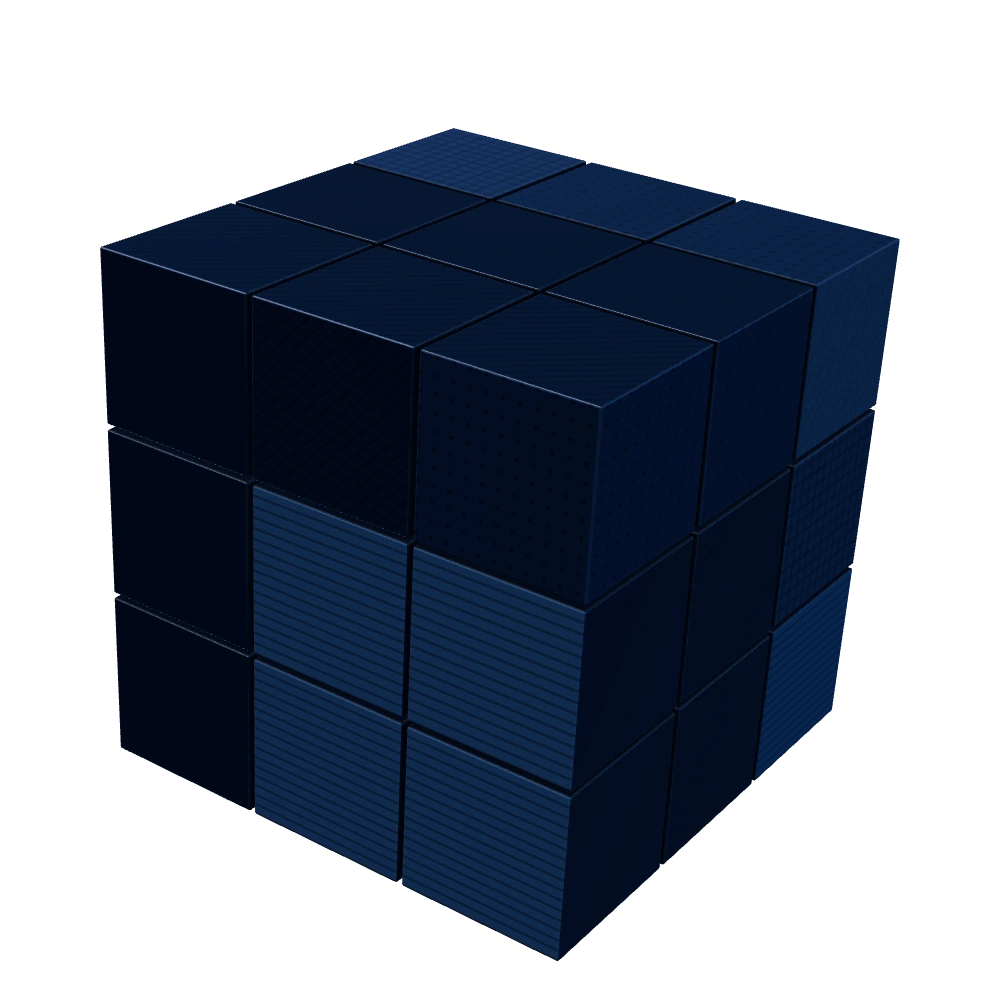
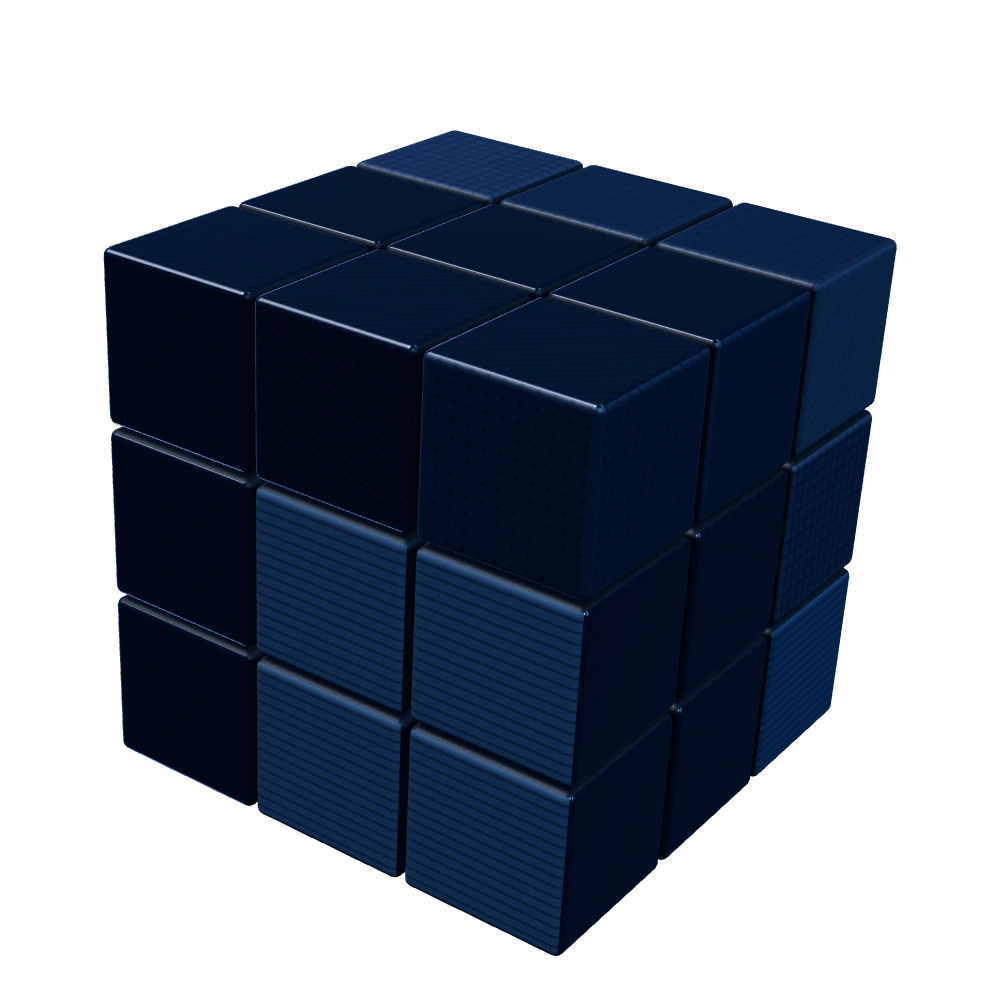
Добавлено переключение секций с натяжением, обновлены кубик и стеклянные поверхности

diff --git a/script.js b/script.js
@@ -1,4 +1,4 @@
-import { mountCube } from './cube.mjs?v=bdcd03778f';
+import { mountCube } from './cube.mjs?v=667a54c1b2';
 
 const canvas = document.querySelector('.cube canvas');
 if (canvas) mountCube(canvas);
@@ -53,94 +53,143 @@ import('./assets/moments/moments.js').then(async ({ready})=>{
   document.querySelectorAll('#about .mo-w').forEach((word,index)=>word.style.setProperty('--word-order',index));
 });
 
-// Native scrolling handles easing, anchor history and compositor timing.
+// A short drag exposes the next section. Crossing the detent commits one page.
 const motionPreference = matchMedia('(prefers-reduced-motion: reduce)');
-let destination = null;
-window.addEventListener('scrollend',()=>{destination=null;});
-window.addEventListener('hashchange',()=>{destination=null;});
-window.addEventListener('pointerdown',()=>{destination=null;},{passive:true});
-window.addEventListener('resize',()=>{destination=null;});
+let glideFrame = 0;
+let pull = null;
+let releaseTimer = 0;
+let wheelCommitted = false;
+let finger = null;
 
-// Keep tall sections readable, including at large text sizes and in landscape.
-function scrollStep(direction, distance) {
-  const top = destination ?? scrollY;
-  const current = sections.findLastIndex(section => section.offsetTop <= top + 2);
-  const section = sections[Math.max(0,current)];
-  const start = section.offsetTop;
-  const end = Math.max(start,start + section.offsetHeight - innerHeight);
-  let next;
-  if (direction > 0) {
-    next = top < end-2 ? Math.min(end,top+distance) : sections[current+1]?.offsetTop ?? document.documentElement.scrollHeight;
-  } else if (top > end+2) {
-    next = end;
-  } else if (top > start+2) {
-    next = Math.max(start,top-distance);
-  } else {
-    const previous = sections[current-1];
-    next = previous ? Math.max(previous.offsetTop,start-innerHeight) : 0;
+function clearGesture() {
+  clearTimeout(releaseTimer);
+  cancelAnimationFrame(glideFrame);
+  glideFrame=0;
+  pull=null;
+  wheelCommitted=false;
+}
+window.addEventListener('resize',clearGesture);
+window.addEventListener('hashchange',clearGesture);
+document.addEventListener('click',event=>{
+  if (event.target.closest('a[href^="#"]')) clearGesture();
+});
+
+function glide(target, duration, then) {
+  cancelAnimationFrame(glideFrame);
+  const from=scrollY, distance=target-from, start=performance.now();
+  function finish() {
+    window.scrollTo({top:target,behavior:'instant'});
+    glideFrame=0;
+    then?.();
   }
-  const reading = direction > 0 ? next > start && next < end-2 : next > start+2 && next < end;
-  next = Math.max(0,Math.min(next,document.documentElement.scrollHeight-innerHeight));
-  const animate = !reading && !motionPreference.matches;
-  destination = animate && Math.abs(next-scrollY)>1 ? next : null;
-  window.scrollTo({top:next,behavior:animate ? 'smooth' : 'instant'});
-  return reading;
+  function advance(now) {
+    const t=Math.min(1,(now-start)/duration);
+    if (t>=1) return finish();
+    const ease=1-(1-t)**3;
+    window.scrollTo({top:from+distance*ease,behavior:'instant'});
+    glideFrame=requestAnimationFrame(advance);
+  }
+  if (motionPreference.matches || Math.abs(distance)<1) finish();
+  else glideFrame=requestAnimationFrame(advance);
 }
 
-let wheelTime = -Infinity, wheelDirection = 0, stepped = false, accumulated = 0;
+// Taller sections scroll normally until the reader arrives at their far edge.
+function bounds(top,direction) {
+  const index=Math.max(0,sections.findLastIndex(section=>section.offsetTop<=top+1));
+  const section=sections[index], start=section.offsetTop;
+  const end=Math.max(start,start+section.offsetHeight-innerHeight);
+  if (direction>0 && top<end-1) return {limit:end,reading:true};
+  if (direction<0 && top>start+1) return {limit:start,reading:true};
+  if (direction<0) return {limit:Math.max(sections[index-1]?.offsetTop ?? 0,start-innerHeight),reading:false};
+  return {limit:sections[index+1]?.offsetTop ?? end,reading:false};
+}
+
+function releasePull() {
+  const pending=pull;
+  pull=null;
+  if (pending) glide(pending.origin,170);
+}
+function pullBy(delta) {
+  if (!delta || glideFrame) return false;
+  const origin=pull?.origin ?? scrollY;
+  const amount=(pull?.amount ?? 0)+delta;
+  const direction=Math.sign(amount);
+  const {limit,reading}=bounds(origin,direction);
+  if (reading || !direction || limit===origin) {
+    pull=null;
+    const offset=reading ? direction*Math.min(Math.abs(amount),Math.abs(limit-origin)) : 0;
+    window.scrollTo({top:origin+offset,behavior:'instant'});
+    return false;
+  }
+  const threshold=Math.min(98,Math.max(62,innerHeight*.105));
+  const preview=origin+direction*Math.min(Math.abs(limit-origin)*.3,Math.min(threshold,Math.abs(amount))*.87);
+  if (Math.abs(amount)<threshold) {
+    pull={origin,amount};
+    if (!motionPreference.matches) window.scrollTo({top:preview,behavior:'instant'});
+    return false;
+  }
+  pull=null;
+  // A notched mouse can send the whole threshold in one event. Give its initial
+  // nudge a frame of its own before completing the same snap as a finger drag.
+  const finish=()=>glide(limit,260);
+  if (Math.abs(preview-scrollY)>20) glide(preview,90,finish);
+  else finish();
+  return true;
+}
+
 window.addEventListener('wheel',event=>{
   if (!event.cancelable || event.ctrlKey || event.shiftKey || Math.abs(event.deltaX)>Math.abs(event.deltaY) || !event.deltaY) return;
-  const direction = Math.sign(event.deltaY);
-  const now = performance.now();
-  if (now-wheelTime>145 || direction!==wheelDirection) {
-    stepped=false;
-    accumulated=0;
-  }
-  wheelTime=now;
-  wheelDirection=direction;
   event.preventDefault();
-  if (stepped) return;
-  const unit = event.deltaMode===1 ? 16 : event.deltaMode===2 ? innerHeight : 1;
-  accumulated+=Math.abs(event.deltaY)*unit;
-  if (accumulated<8) return;
-  const reading = scrollStep(direction,accumulated);
-  accumulated=0;
-  stepped=!reading;
+  clearTimeout(releaseTimer);
+  const unit=event.deltaMode===1 ? 16 : event.deltaMode===2 ? innerHeight : 1;
+  if (!wheelCommitted) wheelCommitted=pullBy(event.deltaY*unit);
+  releaseTimer=setTimeout(()=>{
+    wheelCommitted=false;
+    releasePull();
+  },200);
 },{passive:false});
+
+window.addEventListener('touchstart',event=>{
+  if (event.touches.length!==1 || (window.visualViewport?.scale ?? 1)!==1) {
+    finger=null;
+    releasePull();
+    return;
+  }
+  if (!event.target.closest('main > section')) return;
+  const {clientX:x,clientY:y}=event.touches[0];
+  finger={x,y,lastY:y,vertical:false,committed:false};
+},{passive:true});
+window.addEventListener('touchmove',event=>{
+  if (!finger || !event.cancelable) return;
+  const {clientX:x,clientY:y}=event.touches[0];
+  if (!finger.vertical) {
+    if (Math.abs(x-finger.x)>Math.abs(y-finger.y)) {finger=null;return;}
+    if (Math.abs(y-finger.y)<2) return;
+    finger.vertical=true;
+  }
+  event.preventDefault();
+  if (!finger.committed) finger.committed=pullBy(finger.lastY-y);
+  finger.lastY=y;
+},{passive:false});
+function endTouch() {
+  if (finger) releasePull();
+  finger=null;
+}
+window.addEventListener('touchend',endTouch,{passive:true});
+window.addEventListener('touchcancel',endTouch,{passive:true});
 
 window.addEventListener('keydown',event=>{
   if (event.defaultPrevented || event.ctrlKey || event.metaKey || event.altKey || event.target.closest('input,select,textarea,[contenteditable=true]')) return;
-  const directions = {ArrowDown:1,PageDown:1,ArrowUp:-1,PageUp:-1,' ':event.shiftKey ? -1 : 1};
-  if (!(event.key in directions) || event.key===' ' && event.target.closest('button,a,summary')) return;
+  const directions={ArrowDown:1,PageDown:1,ArrowUp:-1,PageUp:-1,' ':event.shiftKey ? -1 : 1};
+  const direction=directions[event.key];
+  if (!direction || event.key===' ' && event.target.closest('button,a,summary')) return;
   event.preventDefault();
-  if (!event.repeat) scrollStep(directions[event.key],innerHeight*.8);
+  if (event.repeat || glideFrame) return;
+  const top=pull?.origin ?? scrollY;
+  clearGesture();
+  const {limit,reading}=bounds(top,direction);
+  glide(reading ? top+direction*Math.min(innerHeight*.8,Math.abs(limit-top)) : limit,260);
 });
-
-let swipe = null;
-window.addEventListener('touchstart',event=>{
-  const point=event.touches[0];
-  swipe=event.touches.length===1 && (window.visualViewport?.scale ?? 1)===1
-    ? {x:point.clientX,y:point.clientY,section:sections.find(s=>s.contains(event.target)),claimed:false} : null;
-},{passive:true});
-window.addEventListener('touchmove',event=>{
-  if (!swipe?.section || !event.cancelable) return;
-  const dx=event.touches[0].clientX-swipe.x, dy=event.touches[0].clientY-swipe.y;
-  if (!swipe.claimed) {
-    if (Math.abs(dx)>Math.abs(dy) || Math.abs(dy)<3) return;
-    const rect=swipe.section.getBoundingClientRect();
-    if (dy<0 && rect.bottom>innerHeight+2 || dy>0 && rect.top < -2) return;
-    swipe.claimed=true;
-  }
-  event.preventDefault();
-},{passive:false});
-window.addEventListener('touchend',event=>{
-  if (swipe?.claimed) {
-    const dy=swipe.y-event.changedTouches[0].clientY;
-    if (Math.abs(dy)>32) scrollStep(Math.sign(dy),innerHeight*.8);
-  }
-  swipe=null;
-},{passive:true});
-window.addEventListener('touchcancel',()=>{swipe=null;},{passive:true});
 
 // Everything stays readable without script and when a visitor follows an anchor.
 if ('IntersectionObserver' in window && !matchMedia('(prefers-reduced-motion: reduce)').matches) {

diff --git a/style.css b/style.css
@@ -15,15 +15,13 @@ a{color:inherit;text-decoration:none}
 .wrap{width:min(1440px,calc(100% - clamp(40px,9vw,160px)));margin-inline:auto}
 .site-header{height:var(--nav);position:sticky;top:0;z-index:5;background:var(--bg)}
 html{scroll-padding-top:0}
-.nav-inner,.nav nav,.wordmark,footer .wrap,.socials,.socials a,.next-section,.eyebrow,.contact{display:flex;align-items:center}
+.nav-inner,.nav nav,.wordmark,.socials,.socials a,.next-section,.eyebrow,.contact{display:flex;align-items:center}
 .nav-inner{height:100%;justify-content:space-between;border-bottom:1px solid var(--rule)}
 .wordmark{font-size:1.5rem;font-weight:650;letter-spacing:-.06em;gap:.48em;min-height:44px}
-.wordmark img{transition:transform .45s var(--ease)}
-.wordmark:hover img{transform:translateY(-1px)}
 .nav nav,.socials{gap:clamp(20px,3vw,48px)}
-.nav nav a,footer a,.socials a{min-height:44px;display:inline-flex;align-items:center;position:relative;width:fit-content}
-.nav nav a::after,footer a::after,.socials a::after{content:"";position:absolute;bottom:6px;left:0;right:0;height:1px;background:currentColor;transform:scaleX(0);transform-origin:left;transition:transform .27s var(--ease)}
-.nav nav a:hover::after,footer a:hover::after,.socials a:hover::after{transform:scaleX(1)}
+.nav nav a,.socials a{min-height:44px;display:inline-flex;align-items:center;position:relative;width:fit-content}
+.nav nav a::after,.socials a::after{content:"";position:absolute;bottom:6px;left:0;right:0;height:1px;background:currentColor;transform:scaleX(0);transform-origin:left;transition:transform .27s var(--ease)}
+.nav nav a:hover::after,.socials a:hover::after{transform:scaleX(1)}
 .hero-layout{position:relative;min-height:calc(100svh - var(--nav));display:grid;grid-template-columns:1.15fr 1fr;align-items:center;gap:2%;padding-block:clamp(36px,7vh,80px) clamp(80px,11vh,130px)}
 .eyebrow,.next-section,.about h2{font:400 .78rem/1.4 var(--mono)}
 .eyebrow{color:var(--quiet);gap:11px}
@@ -58,8 +56,6 @@ h1 > span{display:block}
 .socials{border-top:1px solid #26344a;margin-top:clamp(34px,7vh,76px);padding-top:15px}
 .socials a{gap:9px;font-weight:550}
 .socials a span{font-size:.85em;transition:transform .22s var(--ease)}
-footer .wrap{min-height:84px;justify-content:space-between}
-.footer-name{font-weight:620;letter-spacing:-.045em}.footer-name,footer a{font-size:1rem}footer a{gap:10px}
 @media(max-width:720px){
  :root{--nav:64px}
  .wrap{width:calc(100% - 40px)}
@@ -88,14 +84,14 @@ footer .wrap{min-height:84px;justify-content:space-between}
   background:#101b2b;box-shadow:0 10px 32px #0008;isolation:isolate}
 .site-header::before{content:"";position:absolute;inset:0;z-index:-1;border-radius:inherit;
   border:1px solid #b6d2ee38;border-top-color:#d5e7ff59;
-  box-shadow:inset 0 1px 1px #e5f1ff24,inset 0 -2px 3px #02071066}
+  box-shadow:inset 1px 1px 2px #e5f1ff45,inset -1px -2px 3px #9eb8da24}
 @supports ((backdrop-filter:blur(1px)) or (-webkit-backdrop-filter:blur(1px))){
   .site-header{background:transparent}
-  .site-header::before{background:rgba(18,30,47,.67);-webkit-backdrop-filter:blur(14px) saturate(1.4);backdrop-filter:blur(14px) saturate(1.4)}
+  .site-header::before{background:rgba(18,30,47,.49);-webkit-backdrop-filter:blur(14px) saturate(1.4);backdrop-filter:blur(14px) saturate(1.4)}
   .site-header.has-lens::before{backdrop-filter:blur(5px) url(#nav-lens) saturate(1.45)}
 }
 .nav-inner{width:100%;border:0;display:grid;grid-template-columns:1fr auto 1fr;gap:10px;padding:0 10px 0 16px}
-.wordmark{font-size:1.18rem;width:fit-content}.wordmark img{width:23px;height:23px}
+.wordmark{font-size:1.18rem;width:fit-content}
 .nav nav{gap:4px}.nav nav a{padding:0 12px;font-size:.91rem;min-height:38px;border-radius:9px;transition:background .25s}
 .nav nav a::after{display:none}.nav nav a:hover,.nav nav a[aria-current]{background:#d5e7ff12}
 .git-link{justify-self:end;display:flex;align-items:center;gap:8px;padding:0 13px;min-height:36px;border-radius:9px;background:#dce3ef;color:#07101b;font-weight:600;font-size:.86rem;transition:transform .2s}
@@ -240,7 +236,6 @@ footer .wrap{min-height:84px;justify-content:space-between}
   .section-index strong {font-size:.78rem}
   .section-index a[aria-current] small {display:none}
   .hero-meta {bottom:64px}
-  footer {padding-bottom:calc(46px + env(safe-area-inset-bottom))}
 }
 @media(prefers-reduced-motion:no-preference){
   #about.is-current .mo-wh__text .mo-w {animation:word-arrival .44s both;animation-delay:calc(var(--word-order,0) * 45ms)}
@@ -249,3 +244,30 @@ footer .wrap{min-height:84px;justify-content:space-between}
 }
 
 html {scrollbar-color:#4c5c70 #0a1320;scrollbar-width:thin}
+
+/* Clear rims, translucent surfaces and an opaque fallback for reduced transparency. */
+.contact,.demo-action {
+  border-color:#b6d7f65e;border-top-color:#deefff9c;
+  background-color:#253e56a6;
+  box-shadow:inset 0 1px 1px #f1f8ff40,inset 0 -2px 3px #03102455,0 4px 14px #0108144a;
+  -webkit-backdrop-filter:blur(14px) saturate(1.4);backdrop-filter:blur(14px) saturate(1.4)
+}
+.experiment {
+  position:relative;isolation:isolate;background:rgba(34,55,76,.46);border-color:#a3c5e249;
+  border-top-color:#d5e9f973;
+  box-shadow:inset 1px 1px 2px #ecf7ff24,inset -1px -2px 2px #91bce31a,0 16px 44px #0005;
+  -webkit-backdrop-filter:blur(20px) saturate(1.35);backdrop-filter:blur(20px) saturate(1.35)
+}
+.study-layout {position:relative;isolation:isolate}
+.study-layout::before {
+  content:"";position:absolute;z-index:-1;pointer-events:none;right:0;top:28%;width:32%;height:43%;
+  border-radius:50%;background:#42709659;filter:blur(54px)
+}
+@media(max-width:1050px) {
+  .section-index {background:#0e1f30c4;border-top-color:#c1dcf55e;box-shadow:inset 0 1px 1px #e6f1ff29;
+    -webkit-backdrop-filter:blur(18px) saturate(1.4);backdrop-filter:blur(18px) saturate(1.4)}
+}
+@media(max-width:800px){.study-layout::before{top:auto;bottom:6%;width:72%;height:32%}}
+@media(prefers-reduced-transparency:reduce){
+  .experiment,.demo-action,.contact,.section-index {background-color:#142537;backdrop-filter:none;-webkit-backdrop-filter:none}
+}

diff --git a/index.html b/index.html
@@ -12,14 +12,14 @@
   <meta property="og:type" content="website">
   <meta property="og:image" content="https://daexorn.github.io/assets/share.jpg">
   <title>Ilya / maisdev — Data science &amp; Telegram bots</title>
-  <link rel="preload" as="image" href="assets/cube-poster.webp" fetchpriority="high">
-  <link rel="icon" href="assets/mark.svg?v=d8fb9f9cab" type="image/svg+xml">
+  <link rel="preload" as="image" href="assets/cube-poster.webp?v=05c317c6b8" fetchpriority="high">
+  <link rel="icon" href="data:,">
   <link rel="preload" href="assets/fonts/host-grotesk.woff2" as="font" type="font/woff2" crossorigin>
   <link rel="stylesheet" href="assets/motion/motion.css">
-  <link rel="stylesheet" href="style.css?v=57ddf7787f">
+  <link rel="stylesheet" href="style.css?v=52e1379665">
   <script>document.documentElement.classList.add('m-enter');setTimeout(() => document.documentElement.classList.add('m-enter-done'), 700)</script>
   <script type="module" src="assets/motion/motion.js"></script>
-  <script type="module" src="script.js?v=39dc2fec73"></script>
+  <script type="module" src="script.js?v=abd9397d90"></script>
   <script type="module" src="assets/moments/moments.js"></script>
 </head>
 <body>
@@ -27,12 +27,12 @@
   <svg class="lens-def" width="0" height="0" aria-hidden="true">
     <defs><filter id="nav-lens" x="0" y="0" width="100%" height="100%" color-interpolation-filters="sRGB">
       <feImage id="lens-map" result="map" preserveAspectRatio="none" width="100%" height="100%"/>
-      <feDisplacementMap in="SourceGraphic" in2="map" scale="16" xChannelSelector="R" yChannelSelector="G"/>
+      <feDisplacementMap in="SourceGraphic" in2="map" scale="22" xChannelSelector="R" yChannelSelector="G"/>
     </filter></defs>
   </svg>
   <header class="site-header nav">
     <div class="wrap nav-inner">
-      <a class="wordmark" href="#top" aria-label="maisdev home"><img src="assets/mark.svg?v=d8fb9f9cab" alt="" width="30" height="30">maisdev</a>
+      <a class="wordmark" href="#top" aria-label="maisdev home">maisdev</a>
       <nav aria-label="Main navigation"><a href="#about">About</a><a href="#notebook">Notebook</a><a href="#cube-study">Cube</a></nav>
       <a class="git-link" href="https://github.com/daexorn" aria-label="daexorn on GitHub"><img src="assets/brands/github.svg" alt="" width="20" height="20"><span>GitHub</span></a>
     </div>
@@ -54,7 +54,7 @@
         </div>
         <div class="stage hero__stage" data-enter-media>
           <button class="cube" type="button" aria-label="Turn a layer of the dark Rubik’s cube">
-            <img fetchpriority="high" src="assets/cube-poster.webp" width="512" height="512" alt="">
+            <img fetchpriority="high" src="assets/cube-poster.webp?v=05c317c6b8" width="512" height="512" alt="">
             <canvas aria-hidden="true" width="512" height="512"></canvas>
           </button>
         </div>
@@ -108,6 +108,5 @@
       </div>
     </section>
   </main>
-  <footer><div class="wrap"><span class="footer-name">maisdev</span><a href="#top">Back to top <span aria-hidden="true">↑</span></a></div></footer>
 </body>
 </html>
